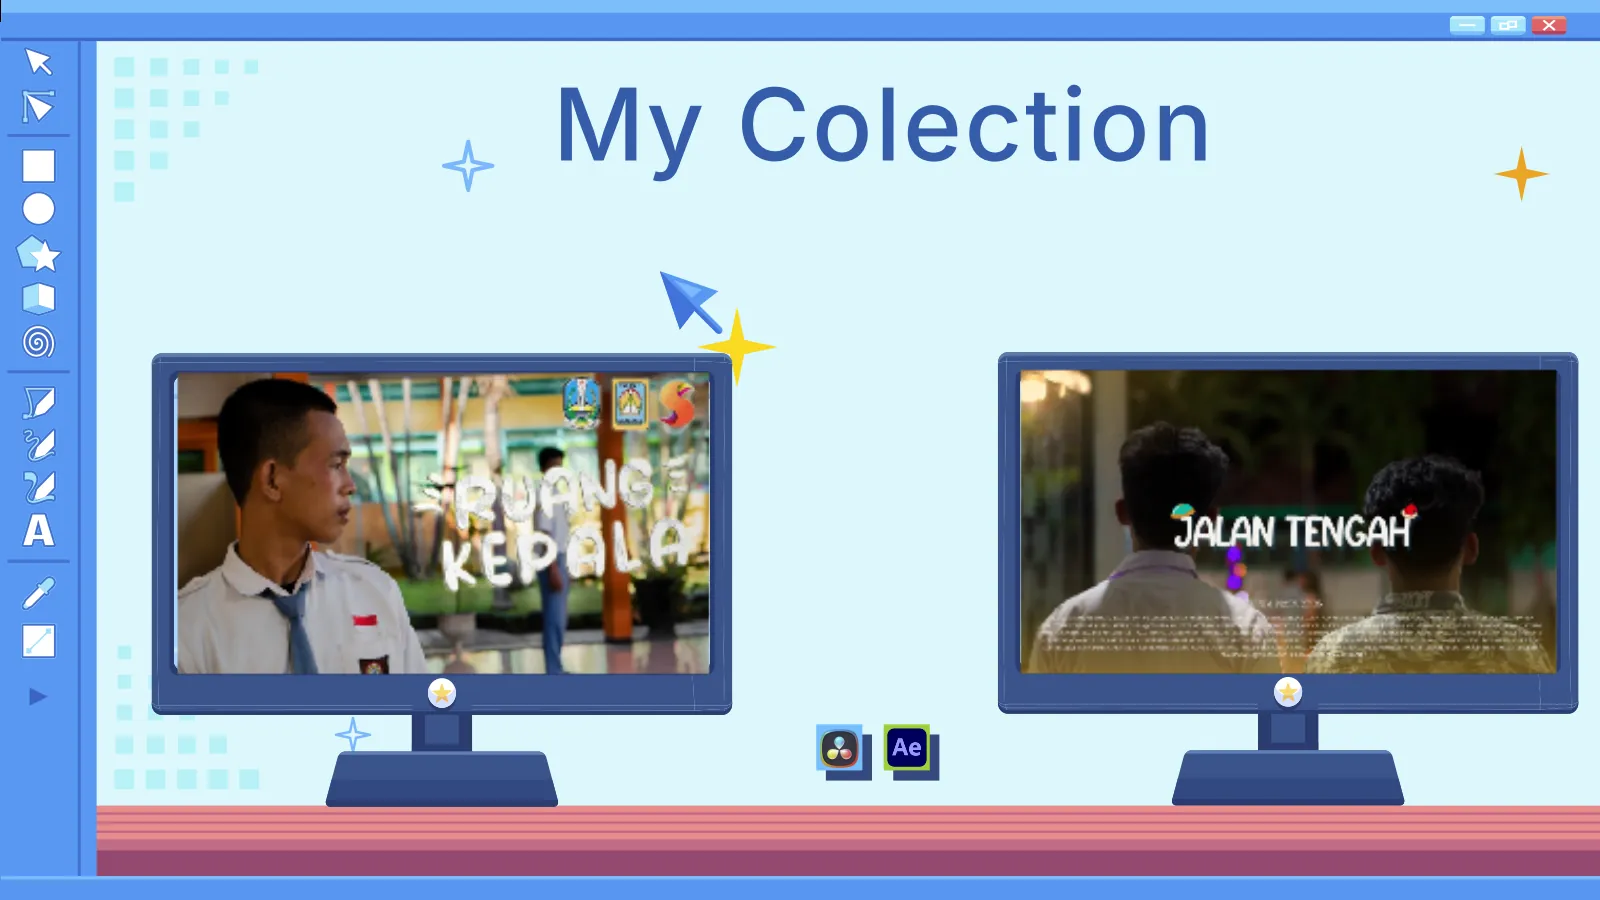
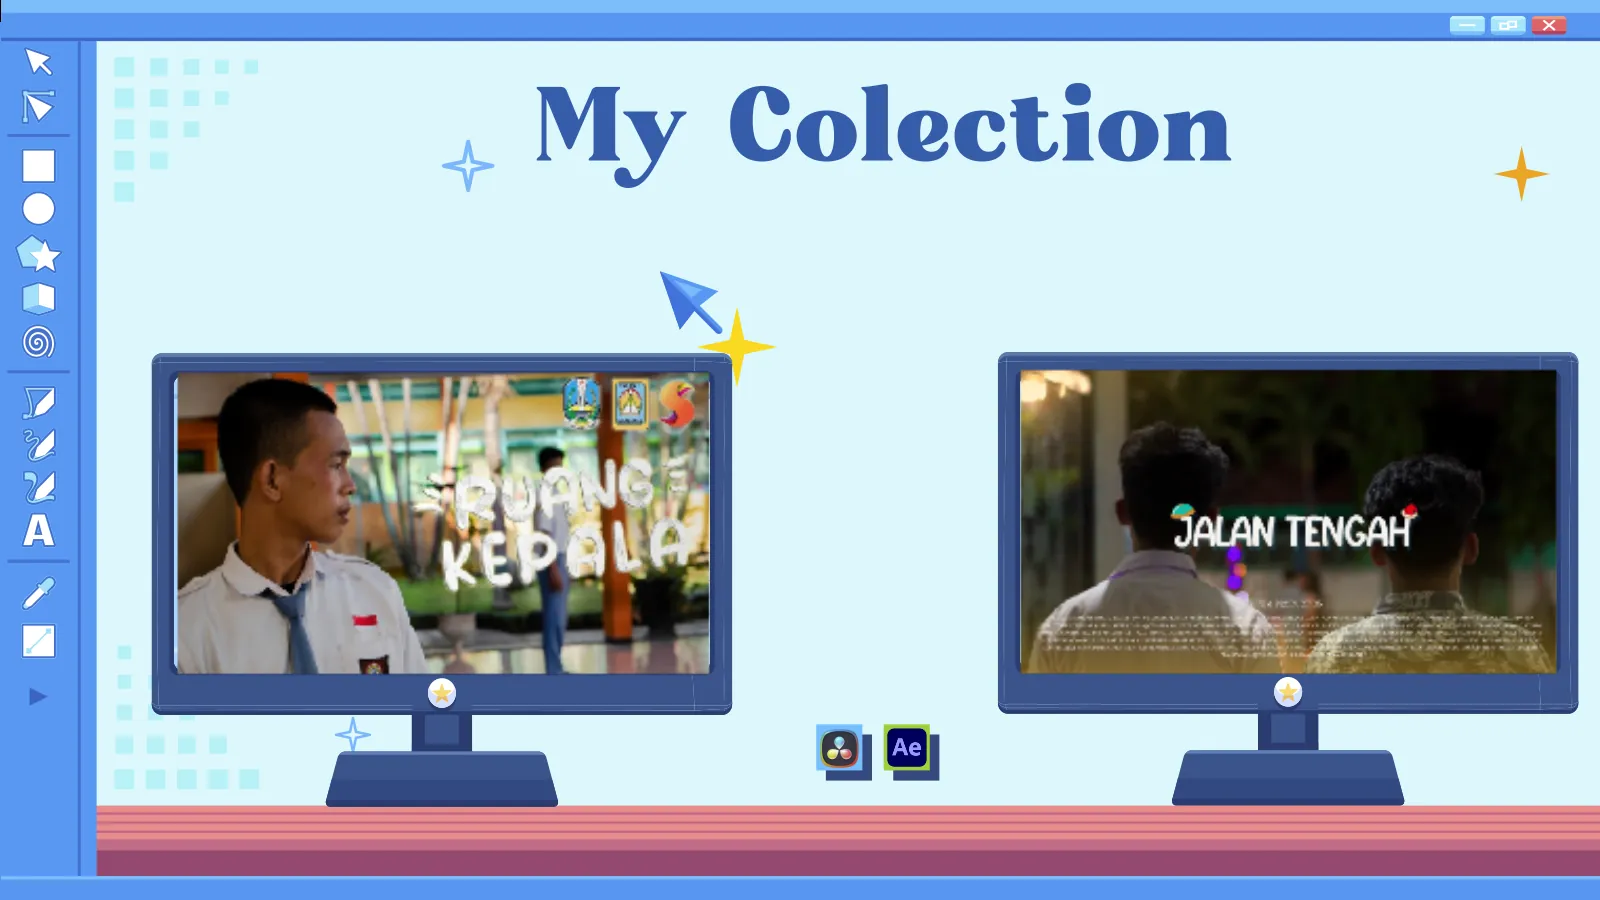
fix(about): font SVG asli (outline) di galeri; CV kepanitiaan + work PDD dari halaman Work

Changed region(s): [[0.3125, 0.0933, 0.7812, 0.2178]]

diff --git a/src/components/AboutCV.jsx b/src/components/AboutCV.jsx
@@ -23,17 +23,35 @@ const CV = [
     ],
   },
   {
-    icon: 'fa-solid fa-briefcase',
-    titleEN: 'Work — Publication, Design & Documentation (PDD)', titleID: 'Work — Publikasi, Desain & Dokumentasi (PDD)',
+    icon: 'fa-solid fa-people-roof',
+    titleEN: 'Committees — PDD team', titleID: 'Kepanitiaan — Sie PDD',
     span: 6,
     wide: true,
     items: [
       { year: '2024 · 2025', en: 'PDD team — Genesis se-Tapal Kuda', id: 'Sie PDD — Genesis se-Tapal Kuda' },
-      { year: '2025', en: 'PDD team — Youth East Java Basketball League (YEJBL), East Java-wide', id: 'Sie Publikasi & Dokumentasi — Youth East Java Basketball League (YEJBL) se-Jawa Timur' },
+      { year: '2025', en: 'Publication & Documentation — Youth East Java Basketball League (YEJBL), East Java-wide', id: 'Sie Publikasi & Dokumentasi — Youth East Java Basketball League (YEJBL) se-Jawa Timur' },
       { year: '2023', en: 'PDD team — Batik Pandalungan', id: 'Sie PDD — Batik Pandalungan' },
       { year: '2023/2024', en: 'PDD team — Kas', id: 'Sie PDD — Kas' },
       { year: 'Event', en: 'PDD team — Talent Show', id: 'Sie PDD — Talent Show' },
       { year: 'Event', en: 'PDD team — Theater event', id: 'Sie PDD — acara Teater' },
+    ],
+  },
+  {
+    icon: 'fa-solid fa-briefcase',
+    titleEN: 'Work — PDD (from my portfolio)', titleID: 'Work — PDD (dari portofolio)',
+    span: 6,
+    wide: true,
+    items: [
+      { year: '2026', en: 'PDD — Parlemen Remaja documentary', id: 'PDD — dokumenter Parlemen Remaja' },
+      { year: '2025', en: 'PDD — Parlemen Remaja candidate campaign video', id: 'PDD — video kampanye caleg Parlemen Remaja' },
+      { year: '2026', en: 'PDD — anti-corruption awareness campaign documentary', id: 'PDD — dokumenter kampanye anti-korupsi' },
+      { year: '2025', en: 'PDD — Senam Anak Indonesia Hebat 2025 competition video', id: 'PDD — video lomba Senam Anak Indonesia Hebat 2025' },
+      { year: '2025', en: 'PDD — teacher profile videos, SMAN 1 Kraksaan', id: 'PDD — video profil guru SMAN 1 Kraksaan' },
+      { year: '2024', en: 'PDD — MPLS 2024 ALTERIO teaser', id: 'PDD — teaser MPLS 2024 ALTERIO' },
+      { year: '2024', en: 'PDD — Duta Pelajar Putri SMA Awards 2024 profile video', id: 'PDD — video profil Duta Pelajar Putri SMA Awards 2024' },
+      { year: '2024', en: 'PDD — live stream & OBS overlay, PERBASI basketball league', id: 'PDD — live streaming & overlay OBS liga basket PERBASI' },
+      { year: '2026', en: 'PDD — GENESIS lanyard design', id: 'PDD — desain lanyard GENESIS' },
+      { year: '2026', en: 'PDD — Not An Ordinary Teenage research poster (UNEJ FKEP)', id: 'PDD — poster riset Not An Ordinary Teenage (UNEJ FKEP)' },
     ],
   },
 ];
